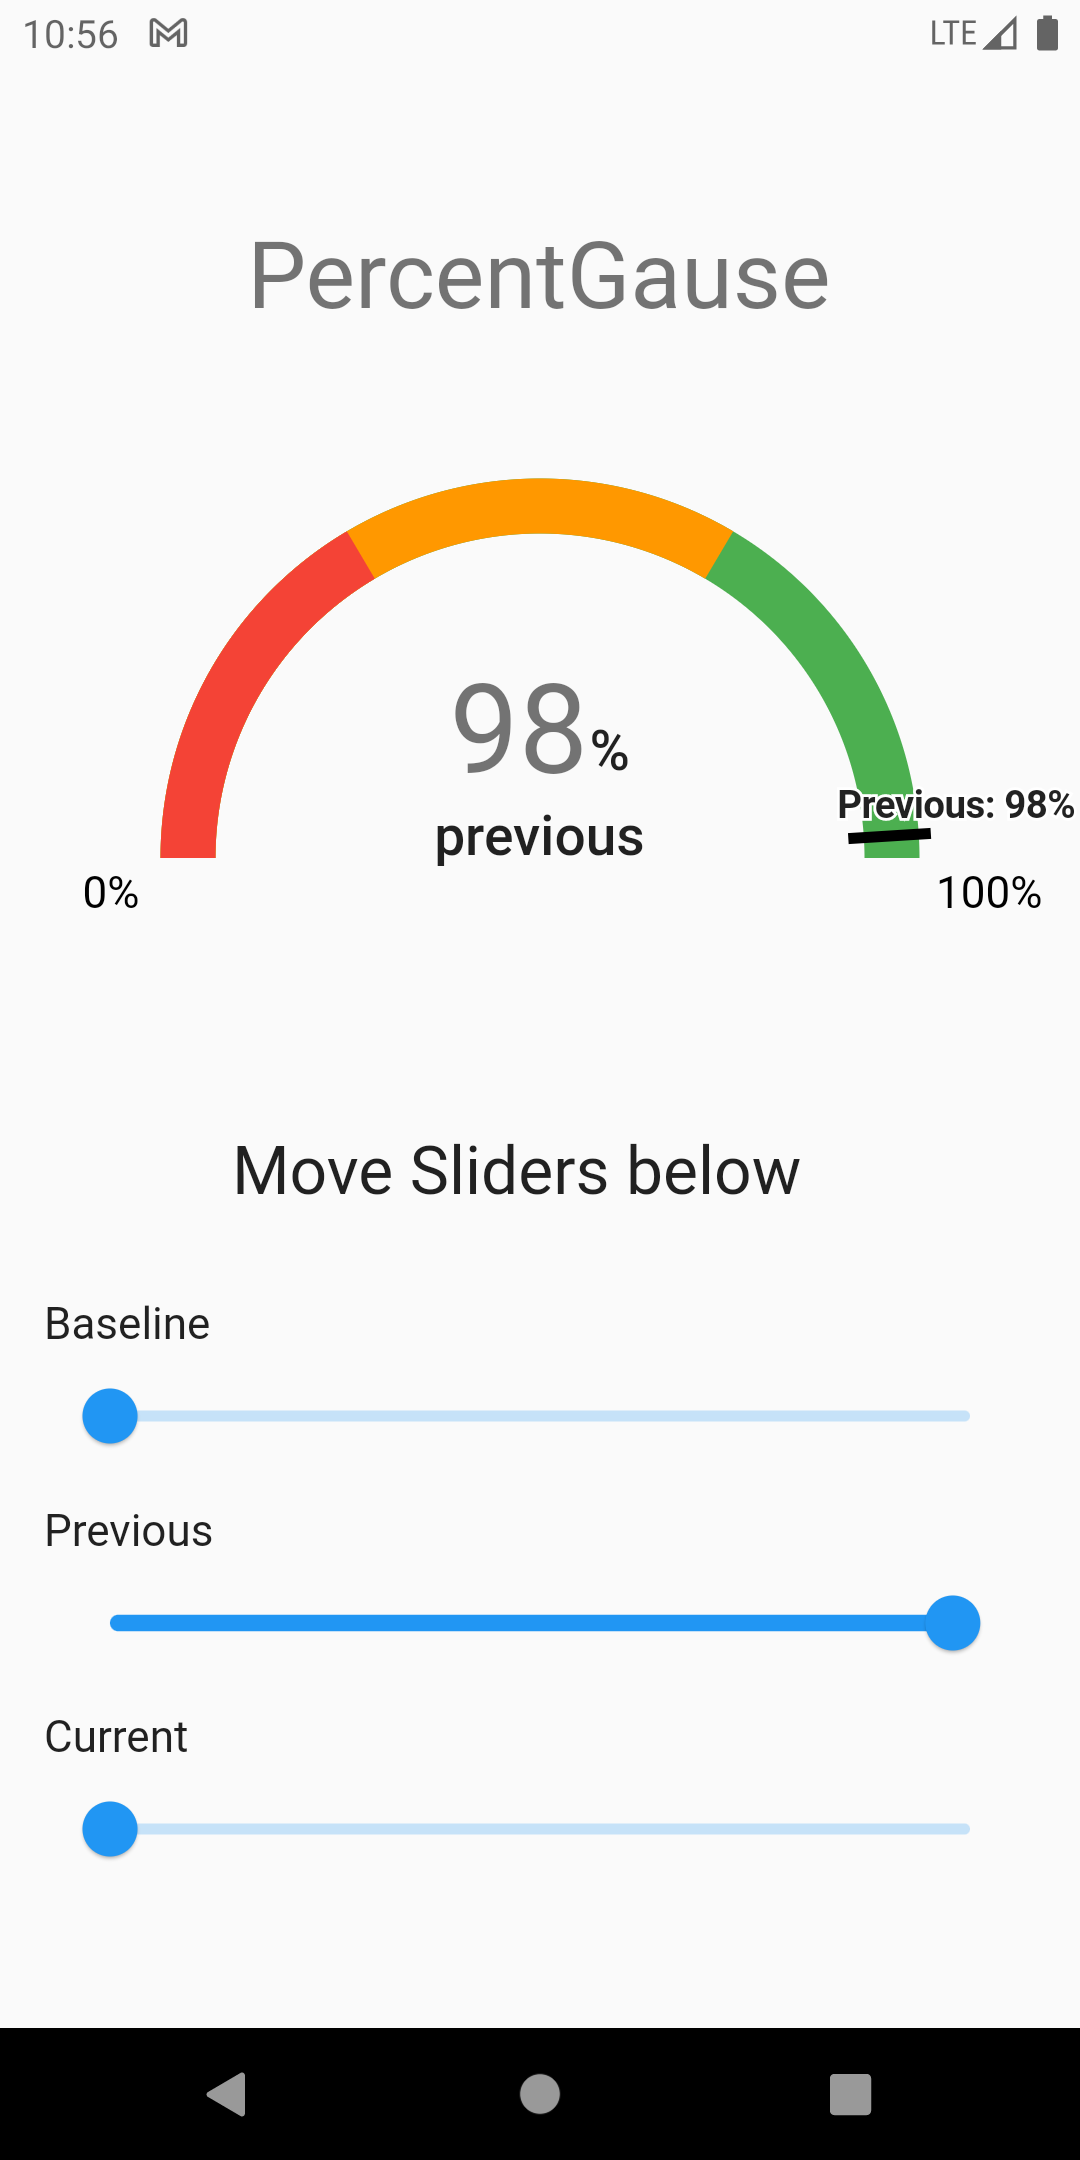
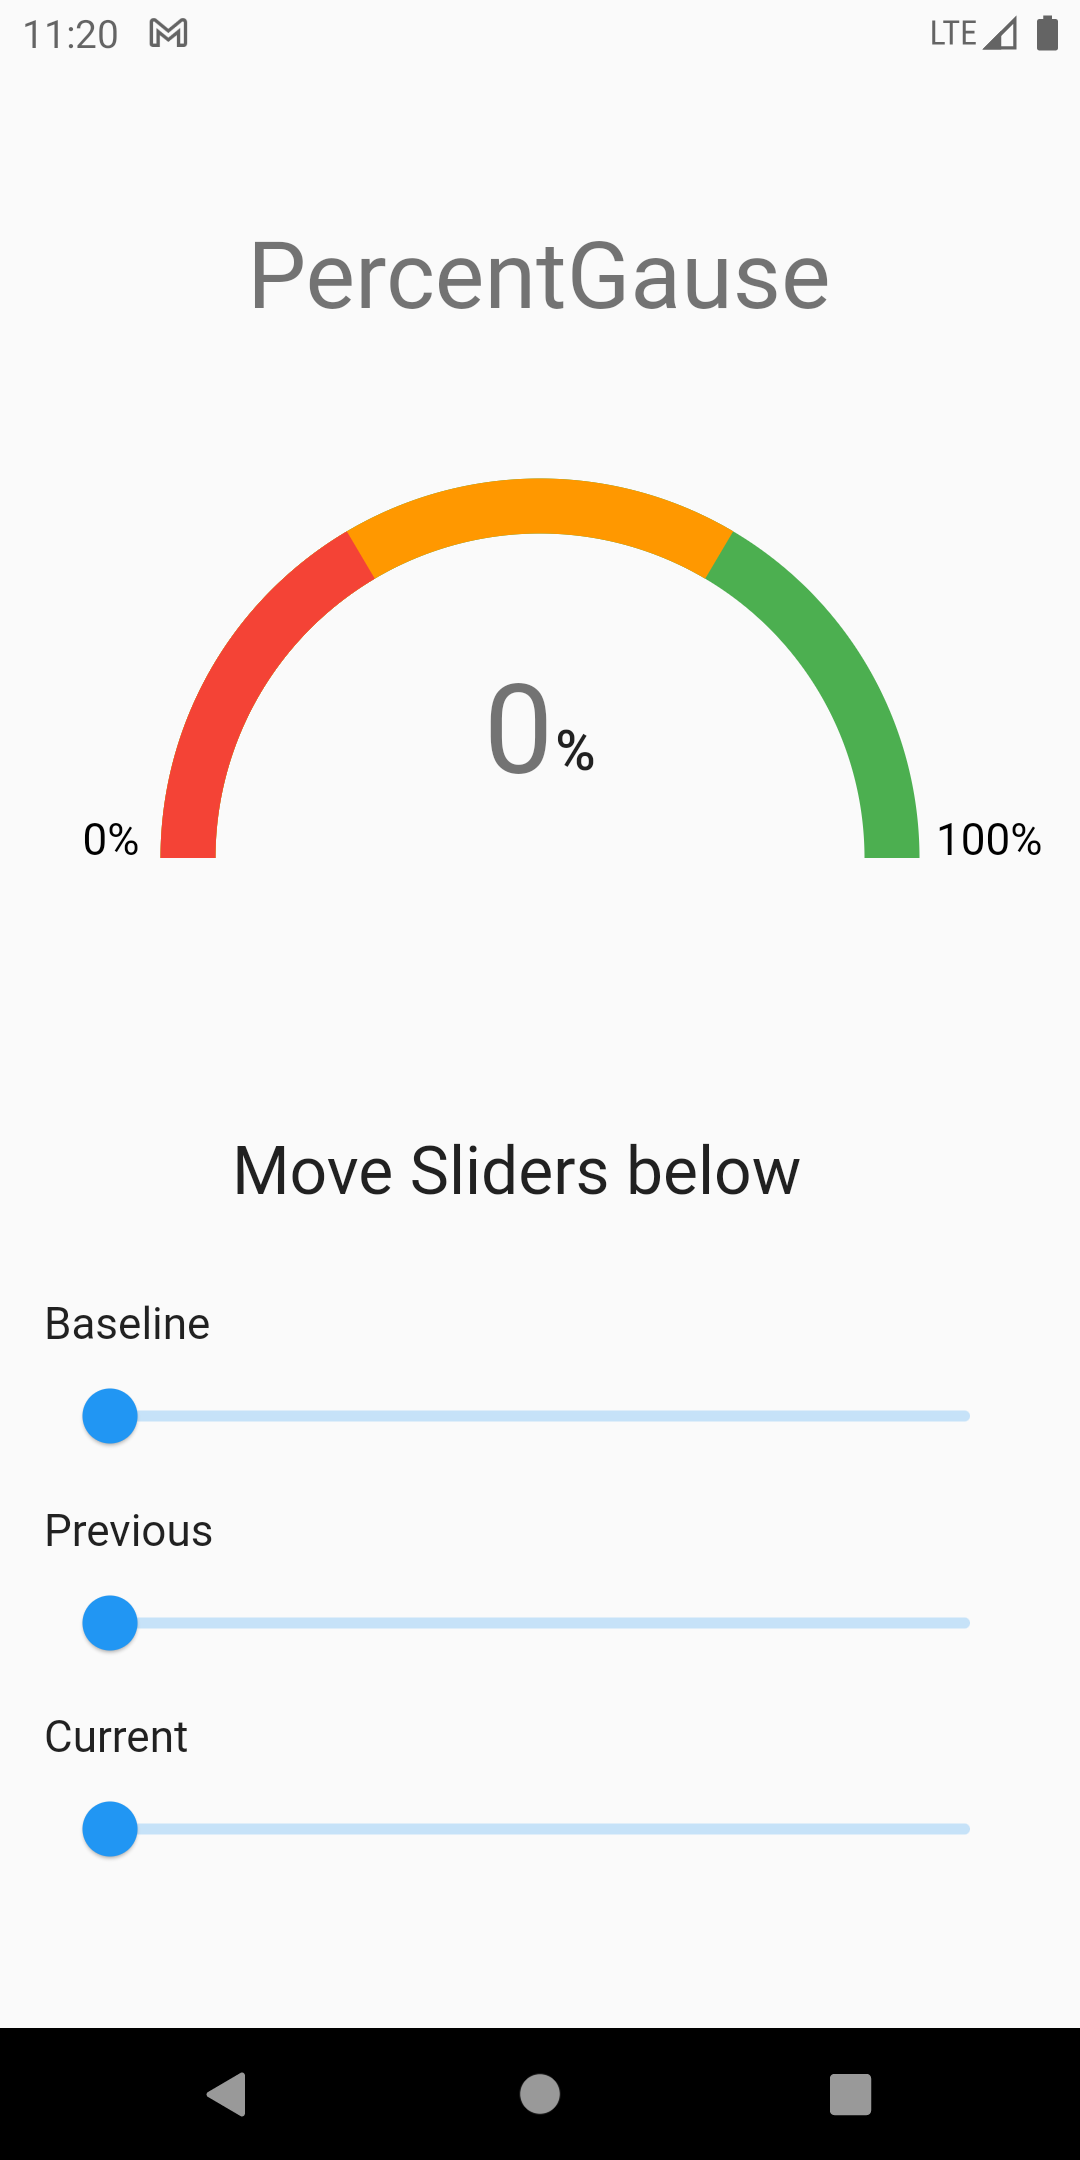
Oh, some more nice changes

diff --git a/lib/widget/gause_widget.dart b/lib/widget/gause_widget.dart
@@ -162,9 +162,7 @@ class _CustomGaugeState extends State<CustomGauge> {
                               widget.showCurrentMarker) &&
                           (widget.baselineValue! < 4 ||
                               widget.previousValue! < 4 ||
-                              widget.currentValue! < 4)
-                              
-                              )
+                              widget.currentValue! < 4))
                       ? widget.gaugeSize * 0.51
                       : widget.gaugeSize * 0.45,
                 ),
@@ -291,26 +289,56 @@ class _CustomGaugeState extends State<CustomGauge> {
             Transform.rotate(
               angle: math.pi * 2 - angle,
               child: Transform.translate(
-                offset: const Offset(0, -10),
-                child: Stack(
+                offset: const Offset(0, -22),
+                child: Column(
                   children: [
-                    Text(
-                      '$label: $localValue%',
-                      style: TextStyle(
-                        fontWeight: FontWeight.bold,
-                        foreground: Paint()
-                          ..style = PaintingStyle.stroke
-                          ..strokeWidth = 2
-                          ..color = Colors.white,
-                        letterSpacing: -0.2,
-                      ),
+                    Stack(
+                      children: [
+                        Text(
+                          label,
+                          style: TextStyle(
+                            fontSize: 18.0,
+                            fontWeight: FontWeight.bold,
+                            foreground: Paint()
+                              ..style = PaintingStyle.stroke
+                              ..strokeWidth = 2
+                              ..color = Colors.white,
+                            letterSpacing: -0.2,
+                          ),
+                        ),
+                        Text(
+                          label,
+                          style: const TextStyle(
+                            fontSize: 18.0,
+                            fontWeight: FontWeight.bold,
+                            letterSpacing: -0.2,
+                          ),
+                        ),
+                      ],
                     ),
-                    Text(
-                      '$label: $localValue%',
-                      style: const TextStyle(
-                        fontWeight: FontWeight.bold,
-                        letterSpacing: -0.2,
-                      ),
+                    Stack(
+                      children: [
+                        Text(
+                          '$localValue%',
+                          style: TextStyle(
+                            fontWeight: FontWeight.bold,
+                            foreground: Paint()
+                              ..style = PaintingStyle.stroke
+                              ..strokeWidth = 2
+                              ..color = Colors.white,
+                            letterSpacing: -0.2,
+                          ),
+                          textAlign: TextAlign.center,
+                        ),
+                        Text(
+                          '$localValue%',
+                          style: const TextStyle(
+                            fontWeight: FontWeight.bold,
+                            letterSpacing: -0.2,
+                          ),
+                          textAlign: TextAlign.center,
+                        ),
+                      ],
                     ),
                   ],
                 ),
